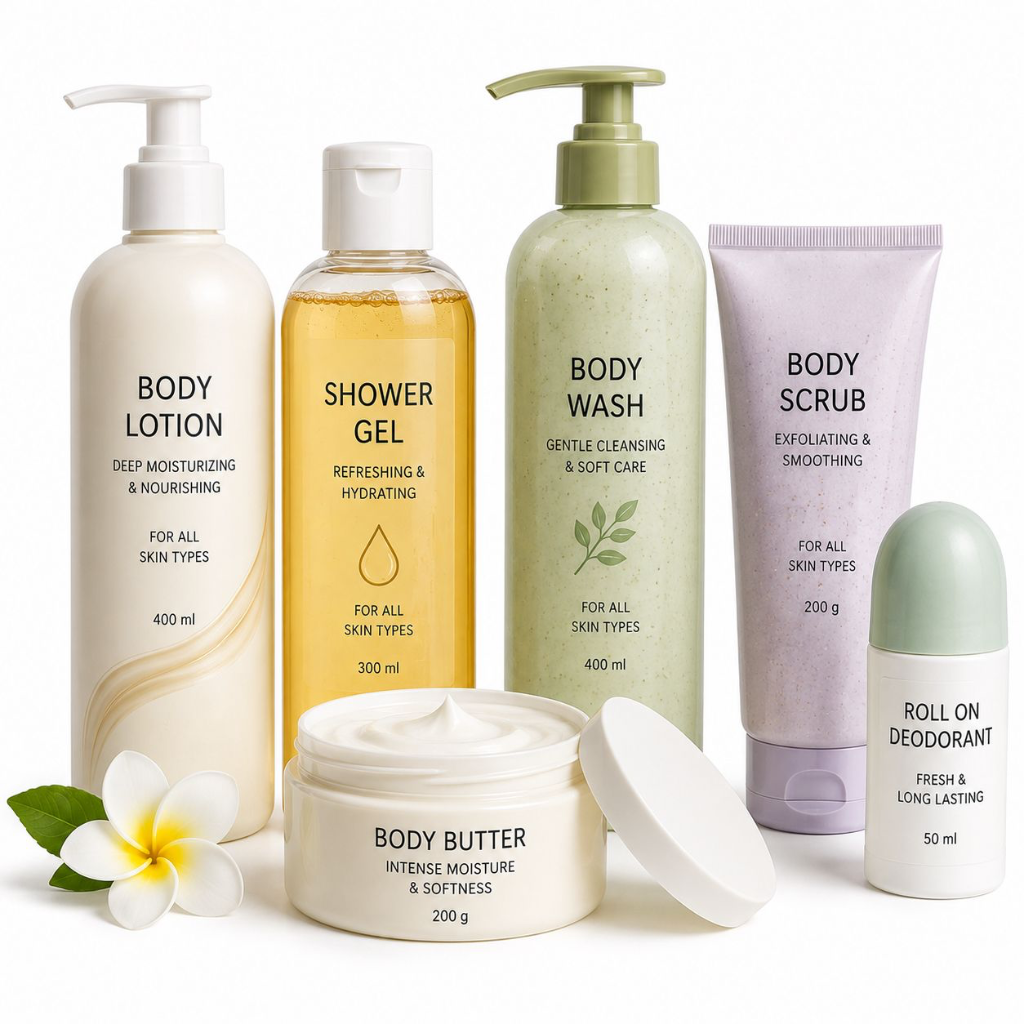
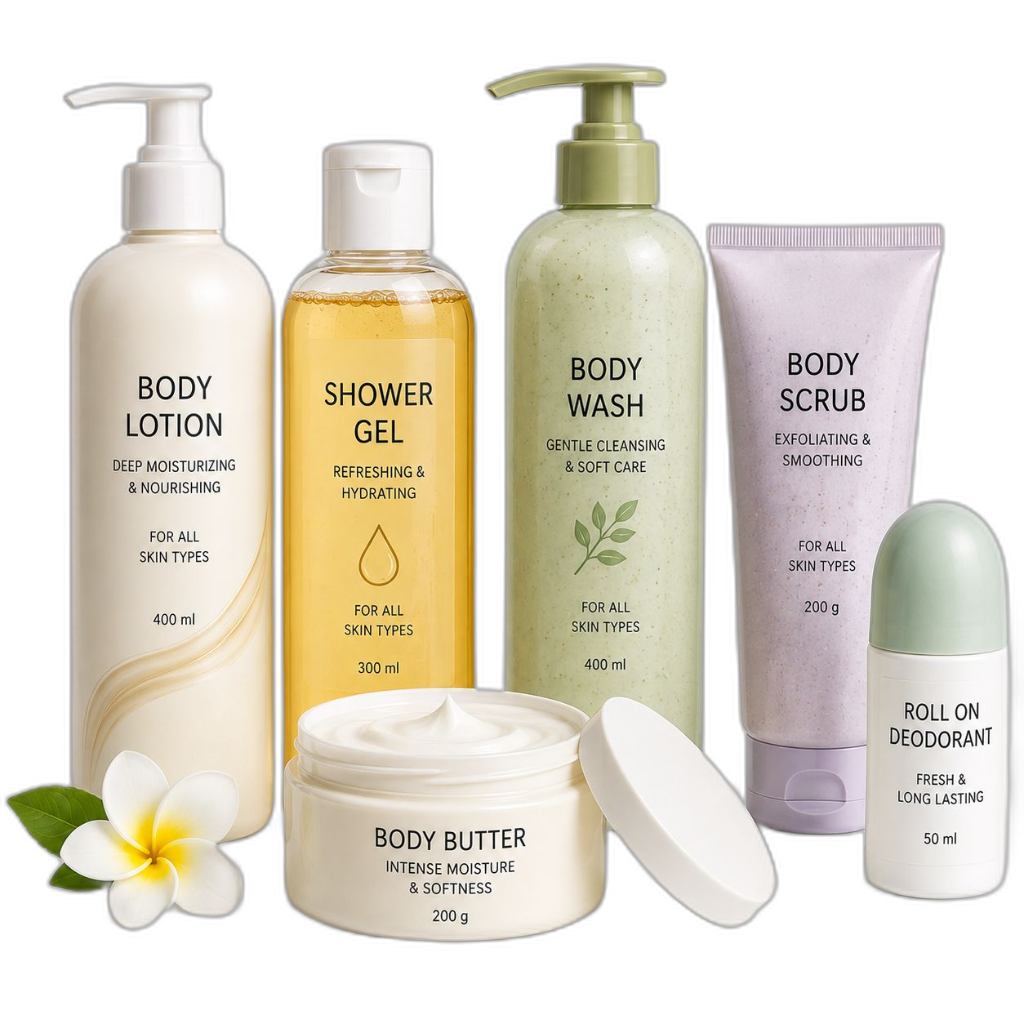
Remove green outline from grocery image and update cache buster

diff --git a/Customer Landing Page/src/pages/saathapp-products/ServiceListing.jsx b/Customer Landing Page/src/pages/saathapp-products/ServiceListing.jsx
@@ -119,7 +119,7 @@ export default function ServiceListing({
                   >
                     <div className="h-48 bg-slate-200 dark:bg-slate-800 relative overflow-hidden flex items-center justify-center">
                        {service.image ? (
-                          <img src={service.image} alt={service.name} className="w-full h-full object-cover group-hover:scale-105 transition-transform duration-500" />
+                          <img src={service.image} alt={service.name} className="w-full h-full object-contain p-2 group-hover:scale-105 transition-transform duration-500" />
                        ) : null}
                        <div className="absolute top-3 left-3 bg-white/90 dark:bg-slate-900/90 backdrop-blur-sm px-2 py-1 rounded text-[10px] font-black uppercase tracking-wider text-slate-800 dark:text-slate-200 shadow-sm">
                          {serviceCategories.find(c => c.id === service.category)?.name}

diff --git a/Customer Landing Page/src/pages/saathapp-products/ServiceBookingFlow.jsx b/Customer Landing Page/src/pages/saathapp-products/ServiceBookingFlow.jsx
@@ -207,7 +207,7 @@ export default function ServiceBookingFlow({
                 <div className="space-y-4">
                   <div className="flex items-start gap-4 p-4 bg-slate-50 dark:bg-slate-900 rounded-xl">
                     <div className="w-16 h-16 bg-slate-200 dark:bg-slate-800 rounded-lg overflow-hidden shrink-0">
-                       {service.image ? <img src={service.image} alt="" className="w-full h-full object-cover"/> : <div className="w-full h-full flex items-center justify-center text-2xl">🛠</div>}
+                       {service.image ? <img src={service.image} alt="" className="w-full h-full object-contain p-1"/> : <div className="w-full h-full flex items-center justify-center text-2xl">🛠</div>}
                     </div>
                     <div>
                       <h4 className="font-bold text-slate-900 dark:text-white mb-1">{service.name}</h4>

diff --git a/Customer Landing Page/src/pages/saathapp-products/ServiceDetails.jsx b/Customer Landing Page/src/pages/saathapp-products/ServiceDetails.jsx
@@ -109,7 +109,7 @@ export default function ServiceDetails({
             <div className="bg-surface border border-theme-border rounded-2xl overflow-hidden shadow-sm sticky top-24">
               <div className="aspect-[4/3] bg-slate-200 dark:bg-slate-800 flex items-center justify-center relative">
                 {service.image ? (
-                  <img src={service.image} alt={service.name} className="w-full h-full object-cover" />
+                  <img src={service.image} alt={service.name} className="w-full h-full object-contain p-1.5" />
                 ) : null}
                 <div className="absolute top-4 left-4 bg-white/90 dark:bg-slate-900/90 backdrop-blur-sm px-3 py-1.5 rounded-md text-[10px] font-black uppercase tracking-wider text-slate-800 dark:text-slate-200 shadow-sm border border-slate-200 dark:border-slate-800">
                   {categoryName}

diff --git a/Customer Landing Page/src/pages/saathapp-products/ProductListing.jsx b/Customer Landing Page/src/pages/saathapp-products/ProductListing.jsx
@@ -1031,7 +1031,7 @@ export default function ProductListing({
                       >
                         <div className="w-full flex-1 flex items-center justify-center overflow-hidden">
                           {cat.image ? (
-                            <img src={`${cat.image}?v=1`} alt={cat.name} className="w-full h-full object-contain p-1.5 group-hover:scale-105 transition-transform duration-500" />
+                            <img src={`${cat.image}?v=2`} alt={cat.name} className="w-full h-full object-contain p-1 group-hover:scale-105 transition-transform duration-500" />
                           ) : (
                             <div className="w-full h-full bg-emerald-500/10 flex items-center justify-center text-emerald-500">
                               <IconComponent size={48} className="group-hover:scale-110 transition-transform duration-500" />
